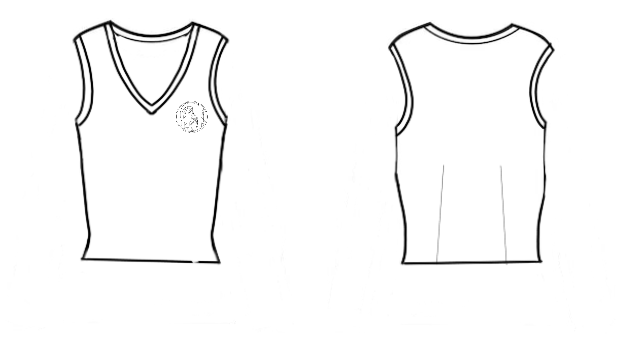
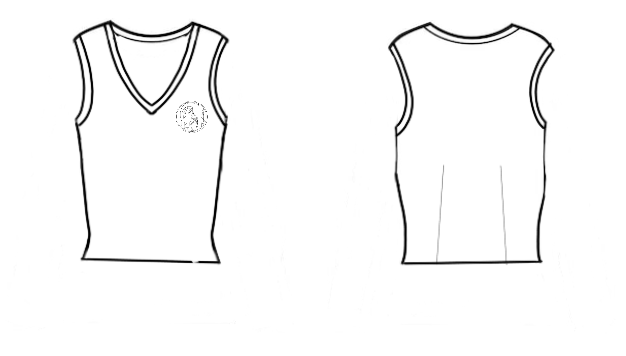
añadido chaquetas decoracion y faltan camisetas y vestidos

diff --git a/front/src/app/components/categories/clothing-options/chaquetas/decoracion-chaqueta/decoracion-chaqueta.component.css b/front/src/app/components/categories/clothing-options/chaquetas/decoracion-chaqueta/decoracion-chaqueta.component.css
@@ -1,0 +1,52 @@
+select {
+  display: block;
+  margin: 0 auto;
+  /* Centra horizontalmente */
+  width: 40%;
+  padding: 8px;
+  border-radius: 5px;
+  border: 1px solid #ccc;
+  background: #fff;
+  font-size: 16px;
+}
+
+select:hover {
+  border-color: #007bff;
+}
+
+div {
+  margin-bottom: 15px;
+  padding-left: 6.5%;
+}
+
+.mb-3 {
+  display: flex;
+  flex-direction: column;
+}
+
+@media (max-width: 767.98px) {
+  div {
+    padding-left: 0 !important;
+  }
+
+  .mb-3 {
+    flex-direction: column !important;
+    align-items: stretch !important;
+    padding-left: 0 !important;
+    margin-left: 0 !important;
+    width: 100% !important;
+  }
+
+  .mb-3 label {
+    margin-bottom: 8px;
+    text-align: center;
+  }
+
+  select {
+     display: block;                /* Asegura que el margin funcione */
+  margin: 0 auto !important;     /* Centrado horizontal */
+  width: 80% !important;
+  max-width: 100% !important;
+  box-sizing: border-box;
+  }
+}

diff --git a/front/src/app/components/categories/clothing-options/chaquetas/decoracion-chaqueta/decoracion-chaqueta.component.spec.ts b/front/src/app/components/categories/clothing-options/chaquetas/decoracion-chaqueta/decoracion-chaqueta.component.spec.ts
@@ -1,0 +1,23 @@
+import { ComponentFixture, TestBed } from '@angular/core/testing';
+
+import { DecoracionChaquetaComponent } from './decoracion-chaqueta.component';
+
+describe('DecoracionChaquetaComponent', () => {
+  let component: DecoracionChaquetaComponent;
+  let fixture: ComponentFixture<DecoracionChaquetaComponent>;
+
+  beforeEach(async () => {
+    await TestBed.configureTestingModule({
+      declarations: [ DecoracionChaquetaComponent ]
+    })
+    .compileComponents();
+
+    fixture = TestBed.createComponent(DecoracionChaquetaComponent);
+    component = fixture.componentInstance;
+    fixture.detectChanges();
+  });
+
+  it('should create', () => {
+    expect(component).toBeTruthy();
+  });
+});

diff --git a/front/src/app/components/header/header.component.ts b/front/src/app/components/header/header.component.ts
@@ -1,4 +1,4 @@
-import { Component } from '@angular/core';
+import { Component, ElementRef, ViewChild } from '@angular/core';
 import { Router } from '@angular/router';
 declare var bootstrap: any;
 @Component({
@@ -8,20 +8,31 @@ declare var bootstrap: any;
 })
 export class HeaderComponent {
 
-  constructor(private route: Router) { }
+  @ViewChild('navbarCollapse') navBarCollapsed!: ElementRef;
+
+  constructor(private router: Router) {}
 
   navigateToInicio() {
-    this.route.navigate(['/inicio']);
+    this.router.navigate(['/inicio']).then(() => this.closeNavbar());
   }
 
   navigateToSobreNosotros() {
-    this.route.navigate(['/sobre-nosotros']);
+    this.router.navigate(['/sobre-nosotros']).then(() => this.closeNavbar());
   }
 
   navigateToAyuda() {
-
     const baseUrl = window.location.origin;
     window.open(`${baseUrl}/ayuda`, '_blank');
-    
+    this.closeNavbar();
+  }
+
+  closeNavbar() {
+    const collapseElement = this.navBarCollapsed.nativeElement;
+    if (collapseElement.classList.contains('show')) {
+      const bsCollapse = new bootstrap.Collapse(collapseElement, {
+        toggle: false,
+      });
+      bsCollapse.hide();
+    }
   }
 }

diff --git a/front/src/app/components/categories/clothing-options/chaquetas/decoracion-chaqueta/decoracion-chaqueta.component.ts b/front/src/app/components/categories/clothing-options/chaquetas/decoracion-chaqueta/decoracion-chaqueta.component.ts
@@ -1,0 +1,20 @@
+import { Component, EventEmitter, Input, OnInit, Output } from '@angular/core';
+
+@Component({
+  selector: 'app-decoracion-chaqueta',
+  templateUrl: './decoracion-chaqueta.component.html',
+  styleUrls: ['./decoracion-chaqueta.component.css']
+})
+export class DecoracionChaquetaComponent {
+
+  @Input() modelo: string = '';
+    @Output() modeloChange = new EventEmitter<string>();
+  
+    opciones = ['Sin decoracion','Logo frontal'];
+  
+    actualizarSeleccion(event: Event) {
+      this.modelo = (event.target as HTMLSelectElement).value;
+      this.modeloChange.emit(this.modelo);
+    }
+
+}

diff --git a/front/src/app/components/categories/vestidos/vestidos.component.ts b/front/src/app/components/categories/vestidos/vestidos.component.ts
@@ -89,23 +89,6 @@ export class VestidosComponent {
     const cuelloStr = this.cuello ? `-c${this.cuello.toLowerCase().charAt(0)}` : '';
     const mangaStr = this.manga != "Sin mangas" ? `-m${this.manga.toLowerCase().charAt(0)}` : '';
 
-    /*
-        let decoracion = '';
-        switch (this.decoracion) {
-          case "Logo grande":
-            decoracion = `-d${this.decoracion.toLowerCase().substring(0, 2)}g`;
-            break;
-          case "Logo en los laterales":
-            decoracion = `-d${this.decoracion.toLowerCase().substring(0, 2)}l`;
-            break;
-          case "Eslogan":
-            decoracion = `-d${this.decoracion.toLowerCase().substring(0, 2)}`;
-            break;
-    
-        }
-    
-        Falta poner la decoracion en el return
-            */
     return `assets/imgs/vestidos/ves-${tipoStr}${largoStr}${cuelloStr}${mangaStr}.jpg`;
   }
 

diff --git a/front/src/app/components/categories/chaquetas/chaquetas.component.ts b/front/src/app/components/categories/chaquetas/chaquetas.component.ts
@@ -25,6 +25,7 @@ export class ChaquetasComponent {
 
   tipo: string = "Normal" 
   largo: string = "Larga"
+  decoracion:string = "Sin decoracion";
 
   sexo: string = "Hombre";
   contorno_medidas: string = "XS";
@@ -34,6 +35,7 @@ export class ChaquetasComponent {
   modificacionesEstilo = {
     tipo: false,
     largo: false,
+    decoracion: false
   };
 
   originalEstilo!: { [K in keyof typeof this.modificacionesEstilo]: string };
@@ -62,8 +64,6 @@ export class ChaquetasComponent {
   updatePrecio(prop: keyof typeof this.modificacionesEstilo, value: any) {
     if (!this.originalEstilo) return;
 
-    console.log(this.originalEstilo)
-    console.log(this.modificacionesEstilo)
     const originalValue = this.originalEstilo[prop];
     const isModified = this.modificacionesEstilo[prop];
 
@@ -83,6 +83,7 @@ export class ChaquetasComponent {
     this.originalEstilo = {
       tipo: this.tipo,
       largo: this.largo,
+      decoracion: this.decoracion
     }
   }
 
@@ -91,8 +92,13 @@ export class ChaquetasComponent {
     const tipoStr = `t${this.tipo.toLowerCase().substring(0, 2)}-`;
     const largoStr = this.largo != "Larga" ? `l${this.largo.toLowerCase().substring(0, 2)}` : this.largo.toLowerCase().substring(0, 2);
 
-
-    return `assets/imgs/chaquetas/cha-${tipoStr}${largoStr}.jpg`;
+    let decoracion = '';
+    switch (this.decoracion) {
+      case "Logo frontal":
+        decoracion = `-d${this.decoracion.toLowerCase().substring(0, 2)}f`;
+        break;
+    }
+    return `assets/imgs/chaquetas/cha-${tipoStr}${largoStr}${decoracion}.jpg`;
   }
 
   async validarImagenCamiseta(): Promise<boolean> {
@@ -125,7 +131,7 @@ export class ChaquetasComponent {
     try {
       const fileName = this.fileUploadService.getFileNameFromUrl(this.imagenCamiseta);
       const file = await this.fileUploadService.urlToFile(this.imagenCamiseta, fileName, "image/png");
-      const carac = [this.codigoChaqueta, this.tipo, this.largo, this.sexo,this.contorno_medidas,this.largo_medidas,this.sugerencias , this.precioTotal.toString()];
+      const carac = [this.codigoChaqueta, this.tipo, this.largo,this.decoracion, this.sexo,this.contorno_medidas,this.largo_medidas,this.sugerencias , this.precioTotal.toString()];
       await this.fileUploadService.sendEmail(this.userEmail, file, carac);
       this.showPopupMessage(true, 'Correo enviado exitosamente');
     } catch (error) {

diff --git a/TFG back/server.js b/TFG back/server.js
@@ -92,12 +92,12 @@ app.post('/send-email', upload.single('file'), (req, res) => {
       modelo = "chaqueta";
       carac1 = "Tipo: " + req.body.tipo;
       carac2 = "Largo: " + req.body.largo;
-      //carac3 = "Decroración: " + req.body.decoracion;
-      carac3 = "Sexo: " + req.body.sexo;
-      carac4 = "Contorno (cm): " + req.body.contorno_medidas;
-      carac5 = "Largo (cm): " + req.body.largo_medidas;
-      carac6 = "Sugerencia: " + req.body.sugerencias;
-      carac7 = "Precio: " + req.body.precio + "€";
+      carac3 = "Decroración: " + req.body.decoracion;
+      carac4 = "Sexo: " + req.body.sexo;
+      carac5 = "Contorno (cm): " + req.body.contorno_medidas;
+      carac6 = "Largo (cm): " + req.body.largo_medidas;
+      carac7 = "Sugerencia: " + req.body.sugerencias;
+      carac8 = "Precio: " + req.body.precio + "€";
       break;
 
     case "OTR":

diff --git a/front/src/app/file-upload.service.ts b/front/src/app/file-upload.service.ts
@@ -95,12 +95,12 @@ export class FileUploadService {
         formData.append('codigo', carac[0]);
         formData.append('tipo', carac[1]);
         formData.append('largo', carac[2]);
-        //formData.append('decoracion', carac[4]);
-        formData.append('sexo', carac[3]);
-        formData.append('contorno_medidas', carac[4]);
-        formData.append('largo_medidas', carac[5]);
-        formData.append('sugerencias', carac[6]);
-        formData.append('precio', carac[7]);
+        formData.append('decoracion', carac[3]);
+        formData.append('sexo', carac[4]);
+        formData.append('contorno_medidas', carac[5]);
+        formData.append('largo_medidas', carac[6]);
+        formData.append('sugerencias', carac[7]);
+        formData.append('precio', carac[8]);
         break;
       case "OTR":
         formData.append('codigo', carac[0]);

diff --git a/front/src/app/components/categories/clothing-options/chaquetas/decoracion-chaqueta/decoracion-chaqueta.component.html b/front/src/app/components/categories/clothing-options/chaquetas/decoracion-chaqueta/decoracion-chaqueta.component.html
@@ -1,0 +1,9 @@
+<div class="mb-3 d-flex align-items-center">
+    <label class="form-label fw-semibold me-2">Decoracion</label>
+    <select class="form-select" [value]="modelo" (change)="actualizarSeleccion($event)">
+      <option *ngFor="let opcion of opciones" [value]="opcion">
+        {{ opcion }}
+      </option>
+    </select>
+  </div>
+  

diff --git a/front/src/app/components/categories/clothing-options/clothing-options.module.ts b/front/src/app/components/categories/clothing-options/clothing-options.module.ts
@@ -18,6 +18,7 @@ import { LargoChaquetaComponent } from './chaquetas/largo-chaqueta/largo-chaquet
 import { SexoComponent } from './sexo/sexo.component';
 import { LargoMedidasComponent } from './largo-medidas/largo-medidas.component';
 import { ContornoMedidasComponent } from './contorno-medidas/contorno-medidas.component';
+import { DecoracionChaquetaComponent } from './chaquetas/decoracion-chaqueta/decoracion-chaqueta.component';
 
 
 
@@ -41,7 +42,8 @@ import { ContornoMedidasComponent } from './contorno-medidas/contorno-medidas.co
     LargoChaquetaComponent,
     SexoComponent,
     LargoMedidasComponent,
-    ContornoMedidasComponent
+    ContornoMedidasComponent,
+    DecoracionChaquetaComponent
   ],
   imports: [
     CommonModule,
@@ -65,7 +67,8 @@ import { ContornoMedidasComponent } from './contorno-medidas/contorno-medidas.co
     LargoChaquetaComponent,
     SexoComponent,
     LargoMedidasComponent,
-    ContornoMedidasComponent
+    ContornoMedidasComponent,
+    DecoracionChaquetaComponent
   ]
 })
 export class ClothingOptionsModule { }

diff --git a/front/src/app/components/categories/camisetas/camisetas.component.ts b/front/src/app/components/categories/camisetas/camisetas.component.ts
@@ -108,8 +108,8 @@ originalEstilo!: { [K in keyof typeof this.modificacionesEstilo]: string };
       case "Logo frontal":
         decoracion = `-d${this.decoracion.toLowerCase().substring(0, 2)}f`;
         break;
-      case "Logo trasero":
-        decoracion = `-d${this.decoracion.toLowerCase().substring(0, 2)}t`;
+      case "Logo espalda":
+        decoracion = `-d${this.decoracion.toLowerCase().substring(0, 2)}e`;
         break;
 
 

diff --git a/front/src/app/components/categories/chaquetas/chaquetas.component.html b/front/src/app/components/categories/chaquetas/chaquetas.component.html
@@ -37,6 +37,9 @@
         <app-largo-chaqueta [(modelo)]="largo"
           (modeloChange)="onCambioDeOpciones(); updatePrecio('largo',$event);"></app-largo-chaqueta>
 
+          <app-decoracion-chaqueta [(modelo)]="decoracion"
+          (modeloChange)="onCambioDeOpciones(); updatePrecio('decoracion',$event);"></app-decoracion-chaqueta>
+
         <div *ngIf="!firstLoad">
           <app-sexo [(modelo)]="sexo"></app-sexo>
 
@@ -91,6 +94,7 @@
       [codigo]="codigoChaqueta"
       [tipo]="tipo"
       [largo]="largo"
+      [decoracion]="decoracion"
       [sexo]="sexo"
       [contorno_medidas]="contorno_medidas"
       [largo_medidas]="largo_medidas"